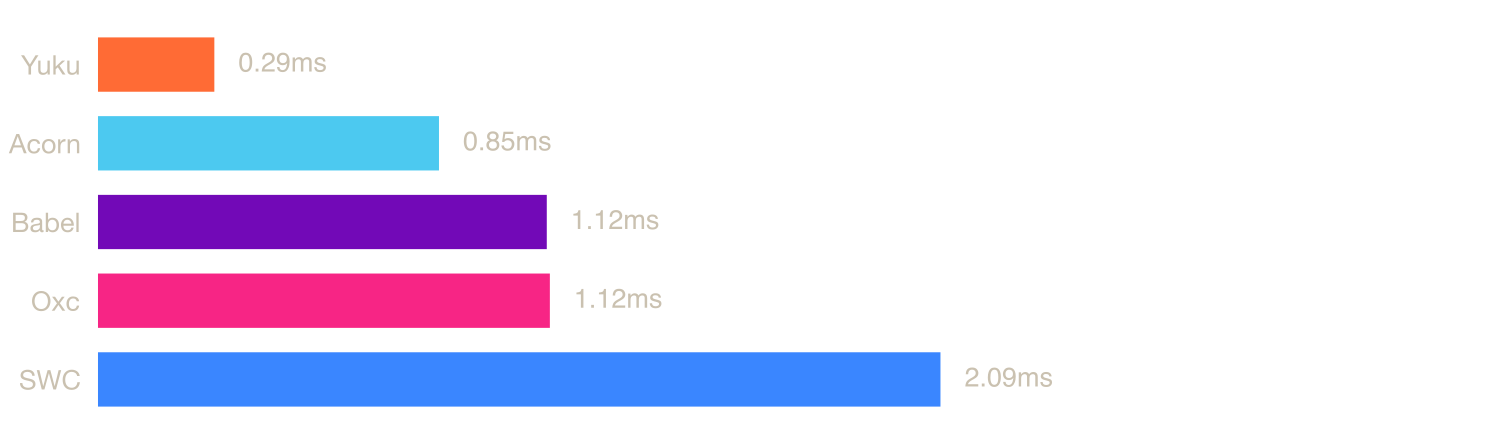
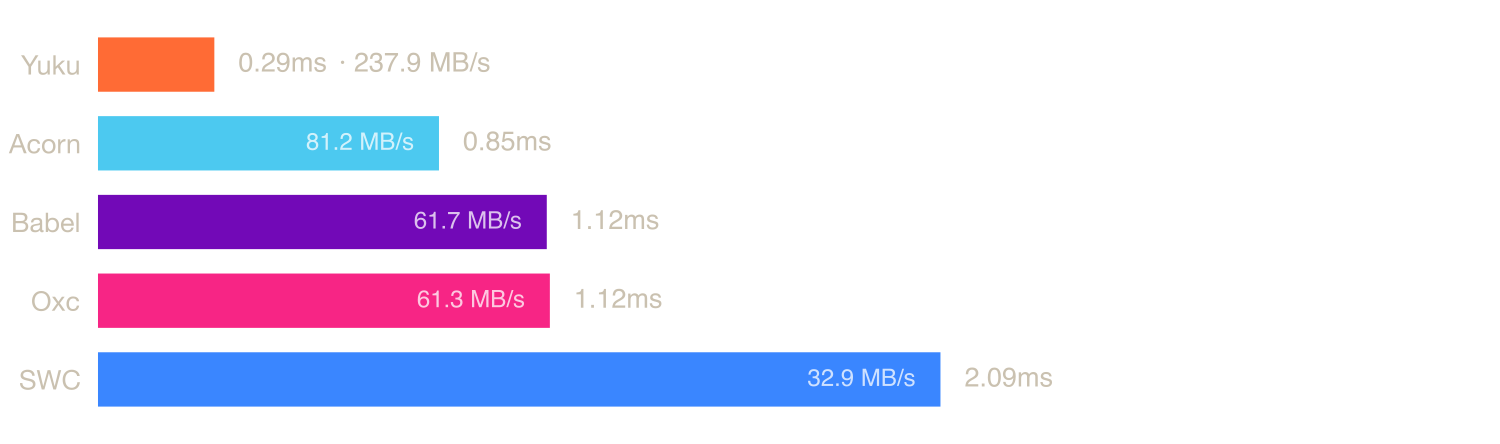
include mb/s in charts

diff --git a/scripts/generate-readme.ts b/scripts/generate-readme.ts
@@ -105,6 +105,10 @@ function formatTime(ms: number): string {
   return `${ms.toFixed(2)} ms`;
 }
 
+function formatThroughput(bytes: number, ms: number): string {
+  return `${(bytes / (1024 * 1024) / (ms / 1000)).toFixed(1)} MB/s`;
+}
+
 function formatOps(medianMs: number): string {
   const ops = 1000 / medianMs;
   return `${ops.toFixed(2)} ops/s`;
@@ -141,7 +145,11 @@ function getParserEntries(data: FileResult): ParserEntry[] {
   return entries;
 }
 
-async function generateChart(entries: ParserEntry[], chartName: string): Promise<string> {
+async function generateChart(
+  entries: ParserEntry[],
+  chartName: string,
+  fileSize: number,
+): Promise<string> {
   const data = entries.filter((e) => e.result != null);
   if (data.length === 0) return "";
 
@@ -214,11 +222,23 @@ async function generateChart(entries: ParserEntry[], chartName: string): Promise
             const bar = meta.data[i];
             const value = dataset.data[i] as number;
             ctx.save();
-            ctx.fillStyle = "#CAC1B0";
             ctx.font = `${9 * dpr}px sans-serif`;
-            ctx.textAlign = "left";
             ctx.textBaseline = "middle";
-            ctx.fillText(`${value.toFixed(2)}ms`, bar.x + 8 * dpr, bar.y);
+            ctx.fillStyle = "#CAC1B0";
+            ctx.textAlign = "left";
+            const msLabel = `${value.toFixed(2)}ms`;
+            ctx.fillText(msLabel, bar.x + 8 * dpr, bar.y);
+            const throughput = formatThroughput(fileSize, value);
+            const barWidth = bar.x - (bar as unknown as { base: number }).base;
+            if (barWidth >= ctx.measureText(throughput).width + 16 * dpr) {
+              ctx.font = `${8 * dpr}px sans-serif`;
+              ctx.fillStyle = "rgba(255, 255, 255, 0.75)";
+              ctx.textAlign = "right";
+              ctx.fillText(throughput, bar.x - 8 * dpr, bar.y);
+            } else {
+              const msWidth = ctx.measureText(msLabel).width;
+              ctx.fillText(`· ${throughput}`, bar.x + 8 * dpr + msWidth + 4 * dpr, bar.y);
+            }
             ctx.restore();
           }
         },
@@ -282,7 +302,7 @@ async function generateBenchmarksSection(): Promise<string> {
     lines.push(`**File size:** ${formatBytes(fileSize)}`);
     lines.push("");
 
-    const chartPath = await generateChart(entries, fileKey);
+    const chartPath = await generateChart(entries, fileKey, fileSize);
     if (chartPath) {
       lines.push(`![Bar chart comparing npm parser speeds for ${fileName}](${chartPath})`);
       lines.push("");
